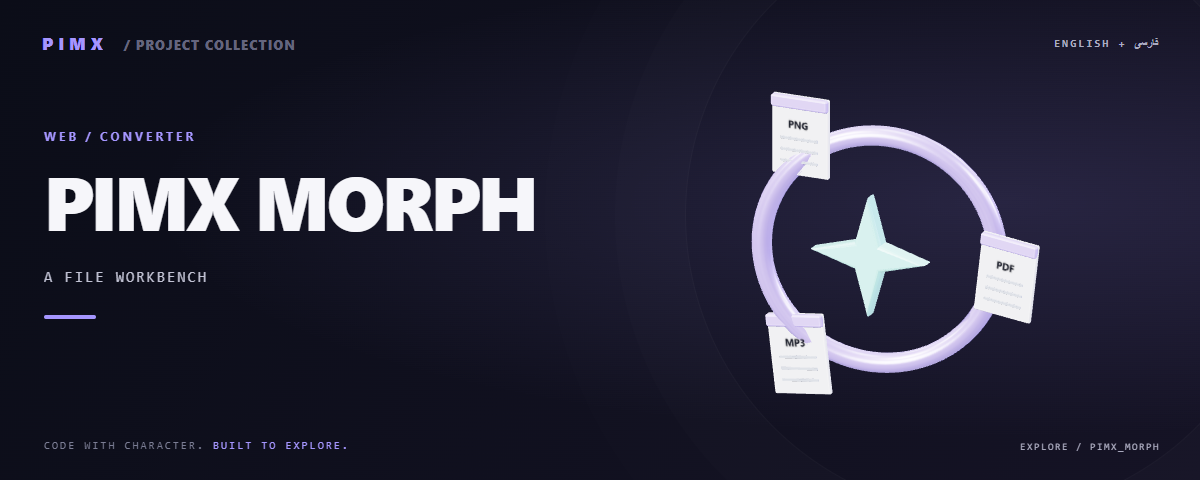
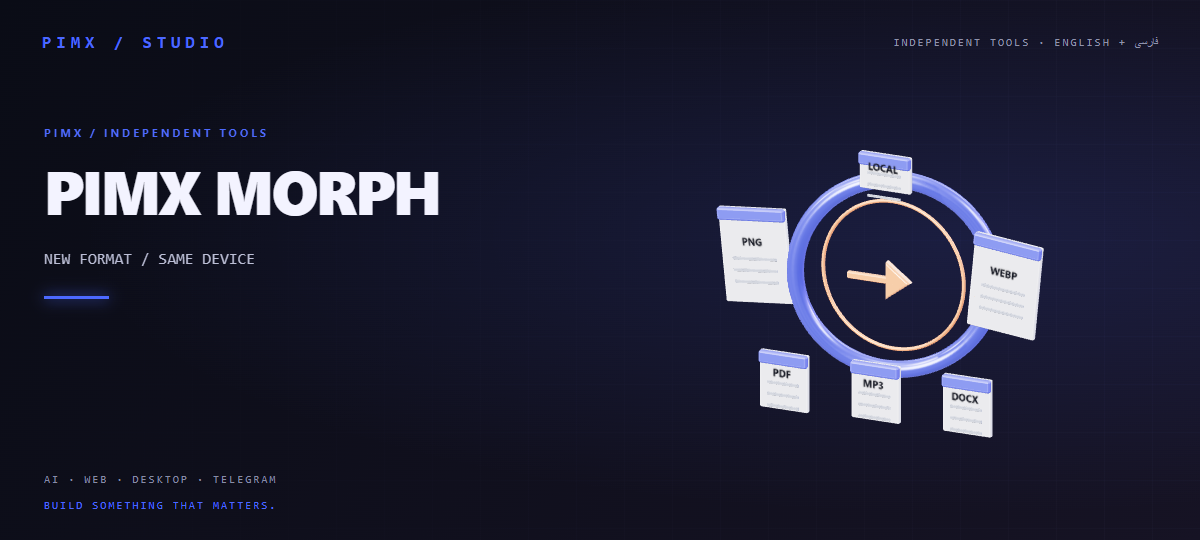
docs: replace site screenshots with original animated 3D artwork

diff --git a/README.fa.md b/README.fa.md
@@ -1,6 +1,6 @@
 <div align="center">
 
-<a href="https://pimxmorph.pages.dev/"><img src="assets/readme/hero.gif" width="1200" alt="PIMX MORPH: animated project artwork" /></a>
+<a href="https://pimxmorph.pages.dev/"><img src="assets/readme/hero.gif" width="1200" alt="PIMX MORPH: original animated 3D illustration" /></a>
 
 [English](README.md) · [فارسی](README.fa.md) · [Live website ↗](https://pimxmorph.pages.dev/)
 
@@ -11,10 +11,6 @@
 # PIMX MORPH
 
 تصویر، PDF، سند، صدا، ویدئو و دادههای ساختاریافته را روی دستگاه خودت تبدیل کن. ابتدا فایل را انتخاب کن تا خروجیهای سازگار نمایش داده شوند؛ نتیجهها را در کتابخانهٔ مرورگر نگه دار و برنامه را با ابزارهای دانلودشده آفلاین استفاده کن.
-
-<a href="https://pimxmorph.pages.dev/"><img src="assets/readme/redesign.gif" width="1200" alt="پیشنمایش رابط بازطراحیشده: PIMX MORPH" /></a>
-
-[پیشنمایش رابط بازطراحیشده · PNG](assets/readme/redesign.png) · [Static artwork](assets/readme/hero.png)
 
 ## امکانات
 

diff --git a/README.md b/README.md
@@ -1,6 +1,6 @@
 <div align="center">
 
-<a href="https://pimxmorph.pages.dev/"><img src="assets/readme/hero.gif" width="1200" alt="PIMX MORPH: animated project artwork" /></a>
+<a href="https://pimxmorph.pages.dev/"><img src="assets/readme/hero.gif" width="1200" alt="PIMX MORPH: original animated 3D illustration" /></a>
 
 [English](README.md) · [فارسی](README.fa.md) · [Live website ↗](https://pimxmorph.pages.dev/)
 
@@ -11,10 +11,6 @@
 # PIMX MORPH
 
 Convert images, PDFs, documents, audio, video and structured data locally. Upload first to see compatible outputs, save finished conversions in a browser library, and install the app with downloaded tools available offline.
-
-<a href="https://pimxmorph.pages.dev/"><img src="assets/readme/redesign.gif" width="1200" alt="Preview of the redesigned interface: PIMX MORPH" /></a>
-
-[Preview of the redesigned interface · PNG](assets/readme/redesign.png) · [Static artwork](assets/readme/hero.png)
 
 ## What you can do
 
